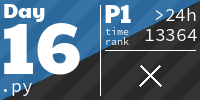
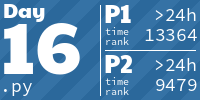
[aoc-tiles] updated

diff --git a/README.md b/README.md
@@ -3,7 +3,7 @@ My solutions to the yearly Advents of Code
 
 <!-- AOC TILES BEGIN -->
 <h1 align="center">
-  Advent of Code - 158/450 ⭐
+  Advent of Code - 161/450 ⭐
 </h1>
 <h1 align="center">
   2023 - 47 ⭐
@@ -132,7 +132,7 @@ My solutions to the yearly Advents of Code
   <img src=".aoc_tiles/tiles/2022/15.png" width="161px">
 </a>
 <h1 align="center">
-  2019 - 31 ⭐
+  2019 - 34 ⭐
 </h1>
 <a href="2019/1/script.py">
   <img src=".aoc_tiles/tiles/2019/01.png" width="161px">
@@ -181,6 +181,9 @@ My solutions to the yearly Advents of Code
 </a>
 <a href="2019/16/script.py">
   <img src=".aoc_tiles/tiles/2019/16.png" width="161px">
+</a>
+<a href="2019/17/script.py">
+  <img src=".aoc_tiles/tiles/2019/17.png" width="161px">
 </a>
 <h1 align="center">
   2015 - 50 ⭐
